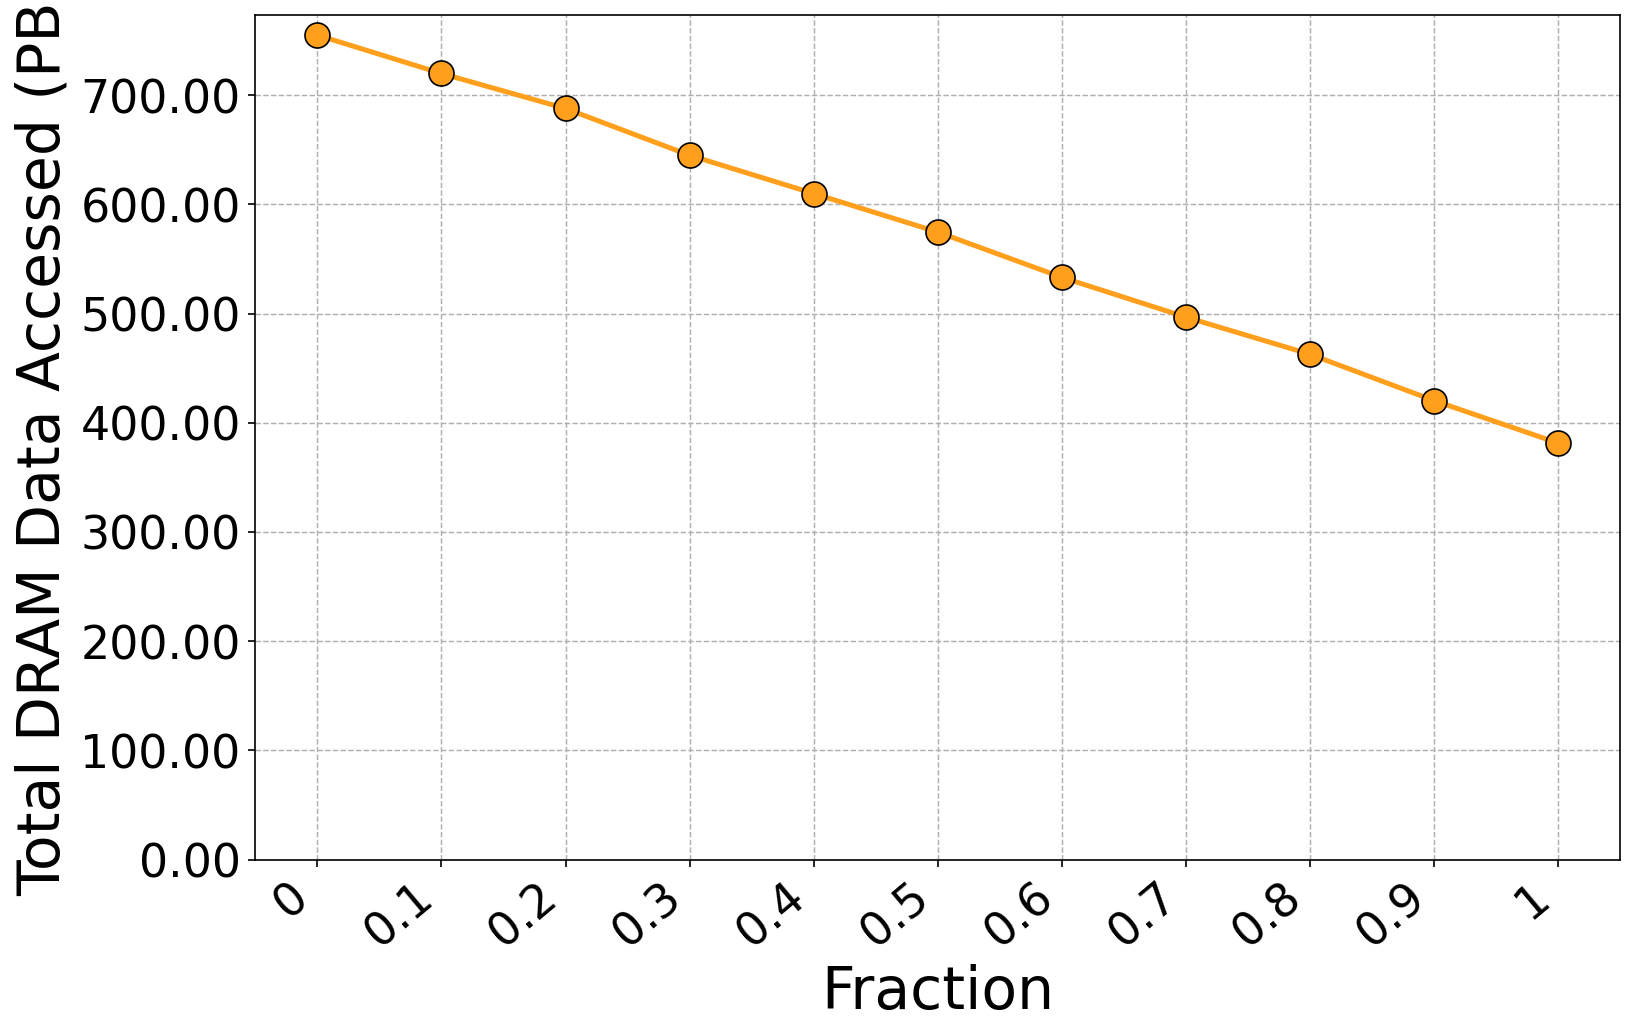
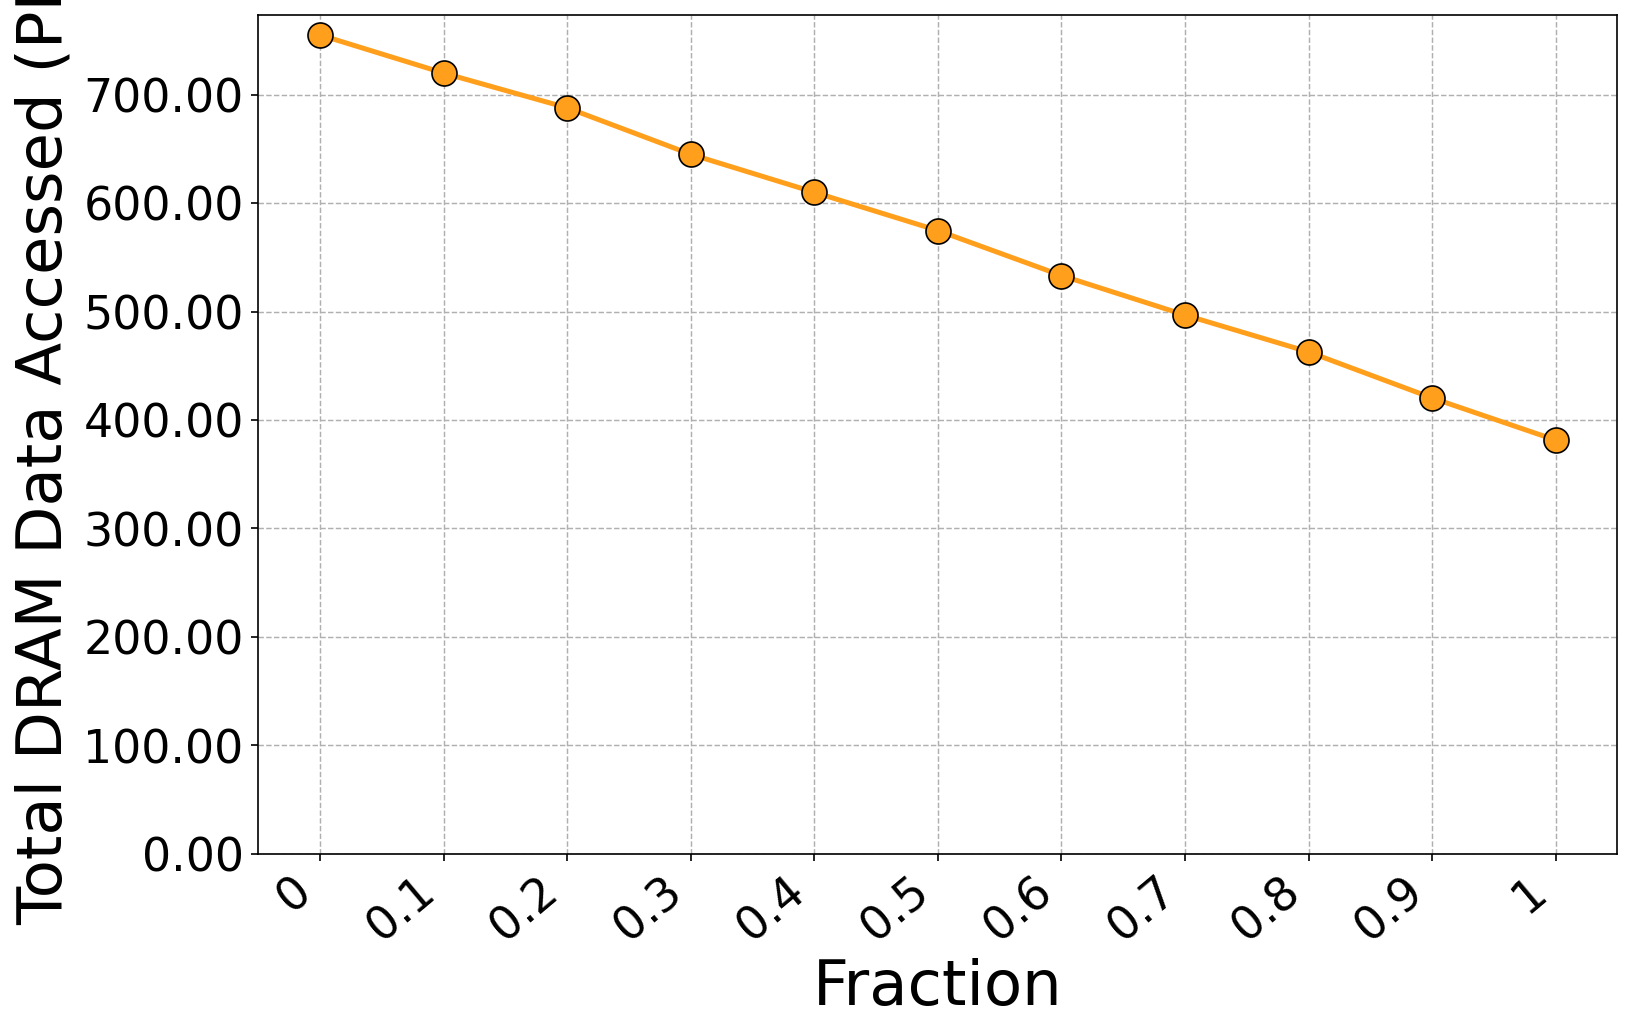
two-fam

diff --git a/code/vllm/fractional_sharing_logs/plot.py b/code/vllm/fractional_sharing_logs/plot.py
@@ -160,8 +160,8 @@ def plot_single(
     ax.plot(xs, ys, marker=MARKER, linestyle="-", linewidth=LINEWIDTH,
             markersize=MARKERSIZE, markeredgecolor="black",
             markeredgewidth=0.8, color=color)
-    ax.set_xlabel("Fraction", fontsize=28)
-    ax.set_ylabel(ylabel, fontsize=28)
+    ax.set_xlabel("Fraction", fontsize=30)
+    ax.set_ylabel(ylabel, fontsize=30)
     ax.tick_params(axis="both", labelsize=22)
     ax.set_xticks(xs)
     ax.set_xticklabels([fmt(v) for v in frac_labels], rotation=40, ha="right")
